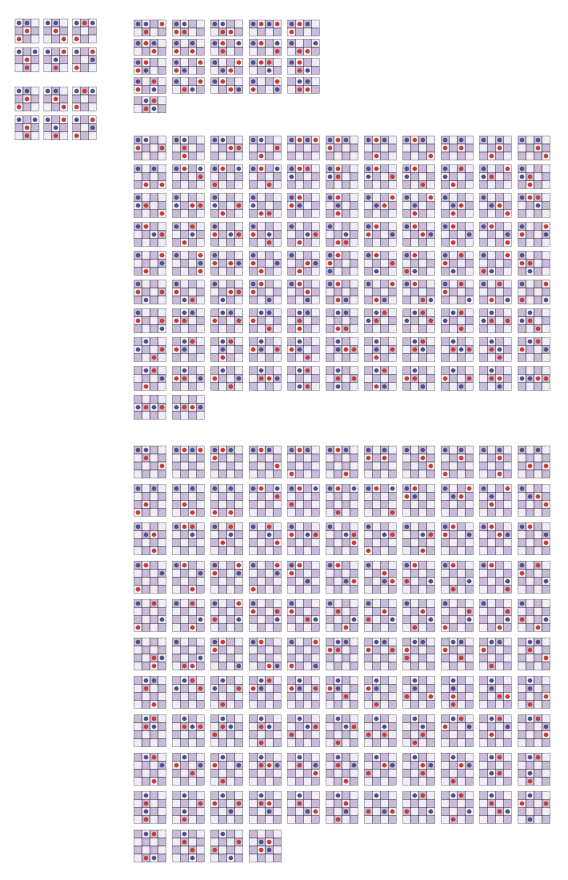
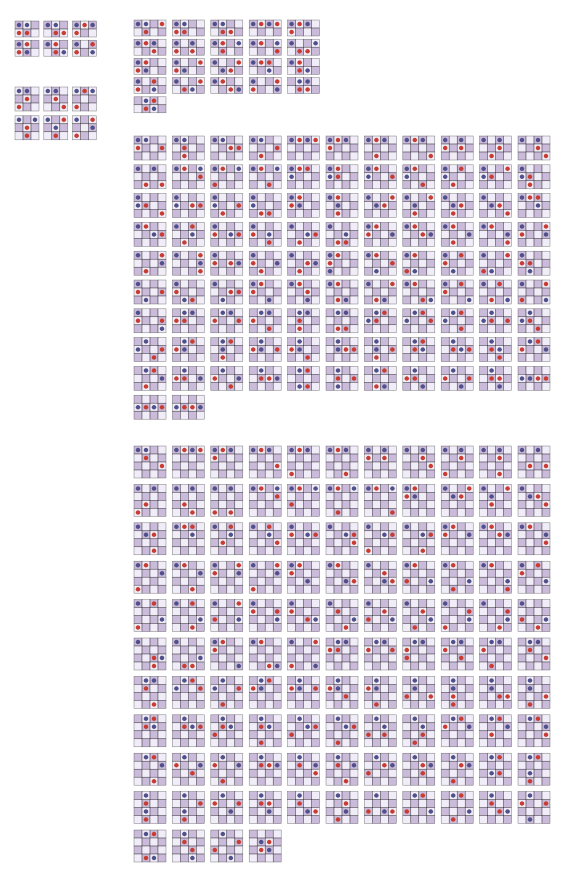
3x2 instead of 3x3 twice

Changed region(s): [[0.0299, 0.0, 0.1796, 0.092]]

diff --git a/r2k2zzn/viz/js/r2k2zzn_enum_viz.js b/r2k2zzn/viz/js/r2k2zzn_enum_viz.js
@@ -559,6 +559,6 @@ function web_init() {
   var ele = document.getElementById(CANVAS_ID);
   two.appendTo(ele);
 
-  disp_wh_r2k2zzn(7);
+  disp_wh_r2k2zzn(1);
   //disp_r2k2zzn();
 }
